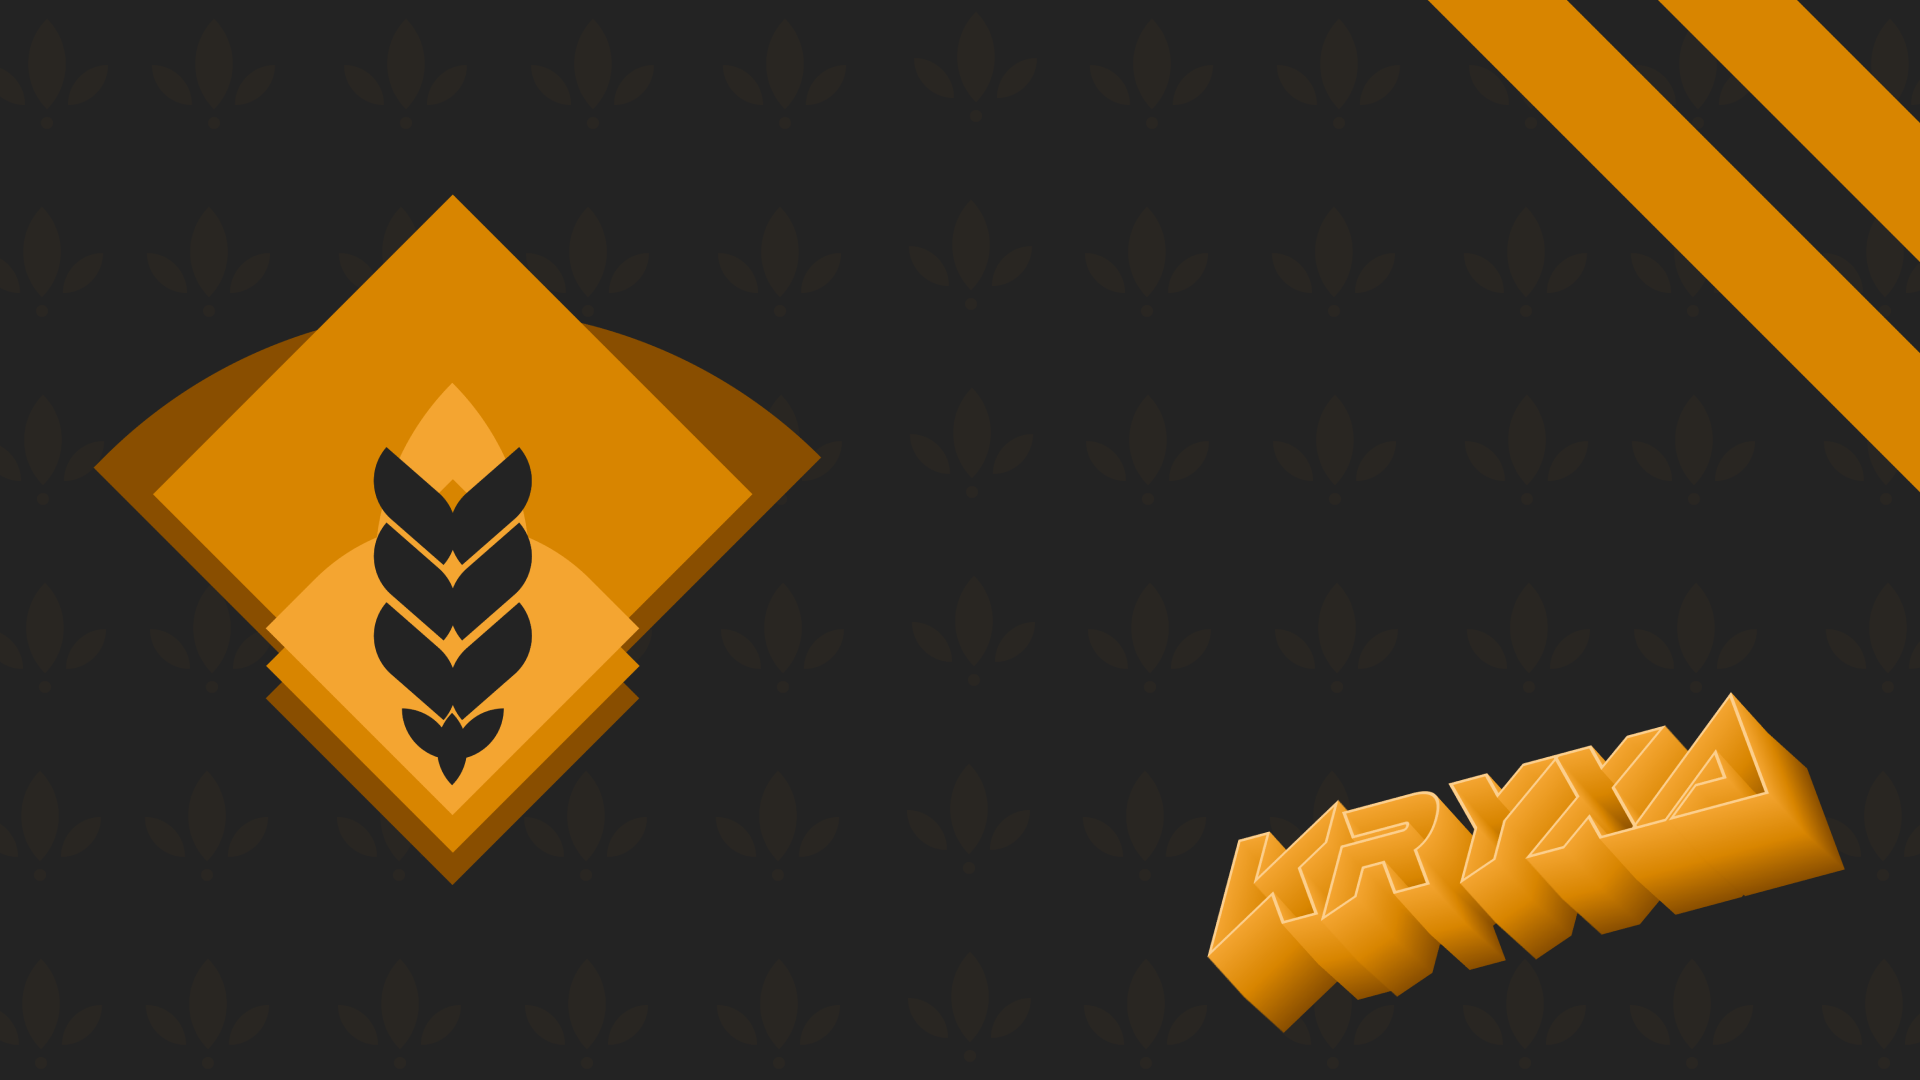
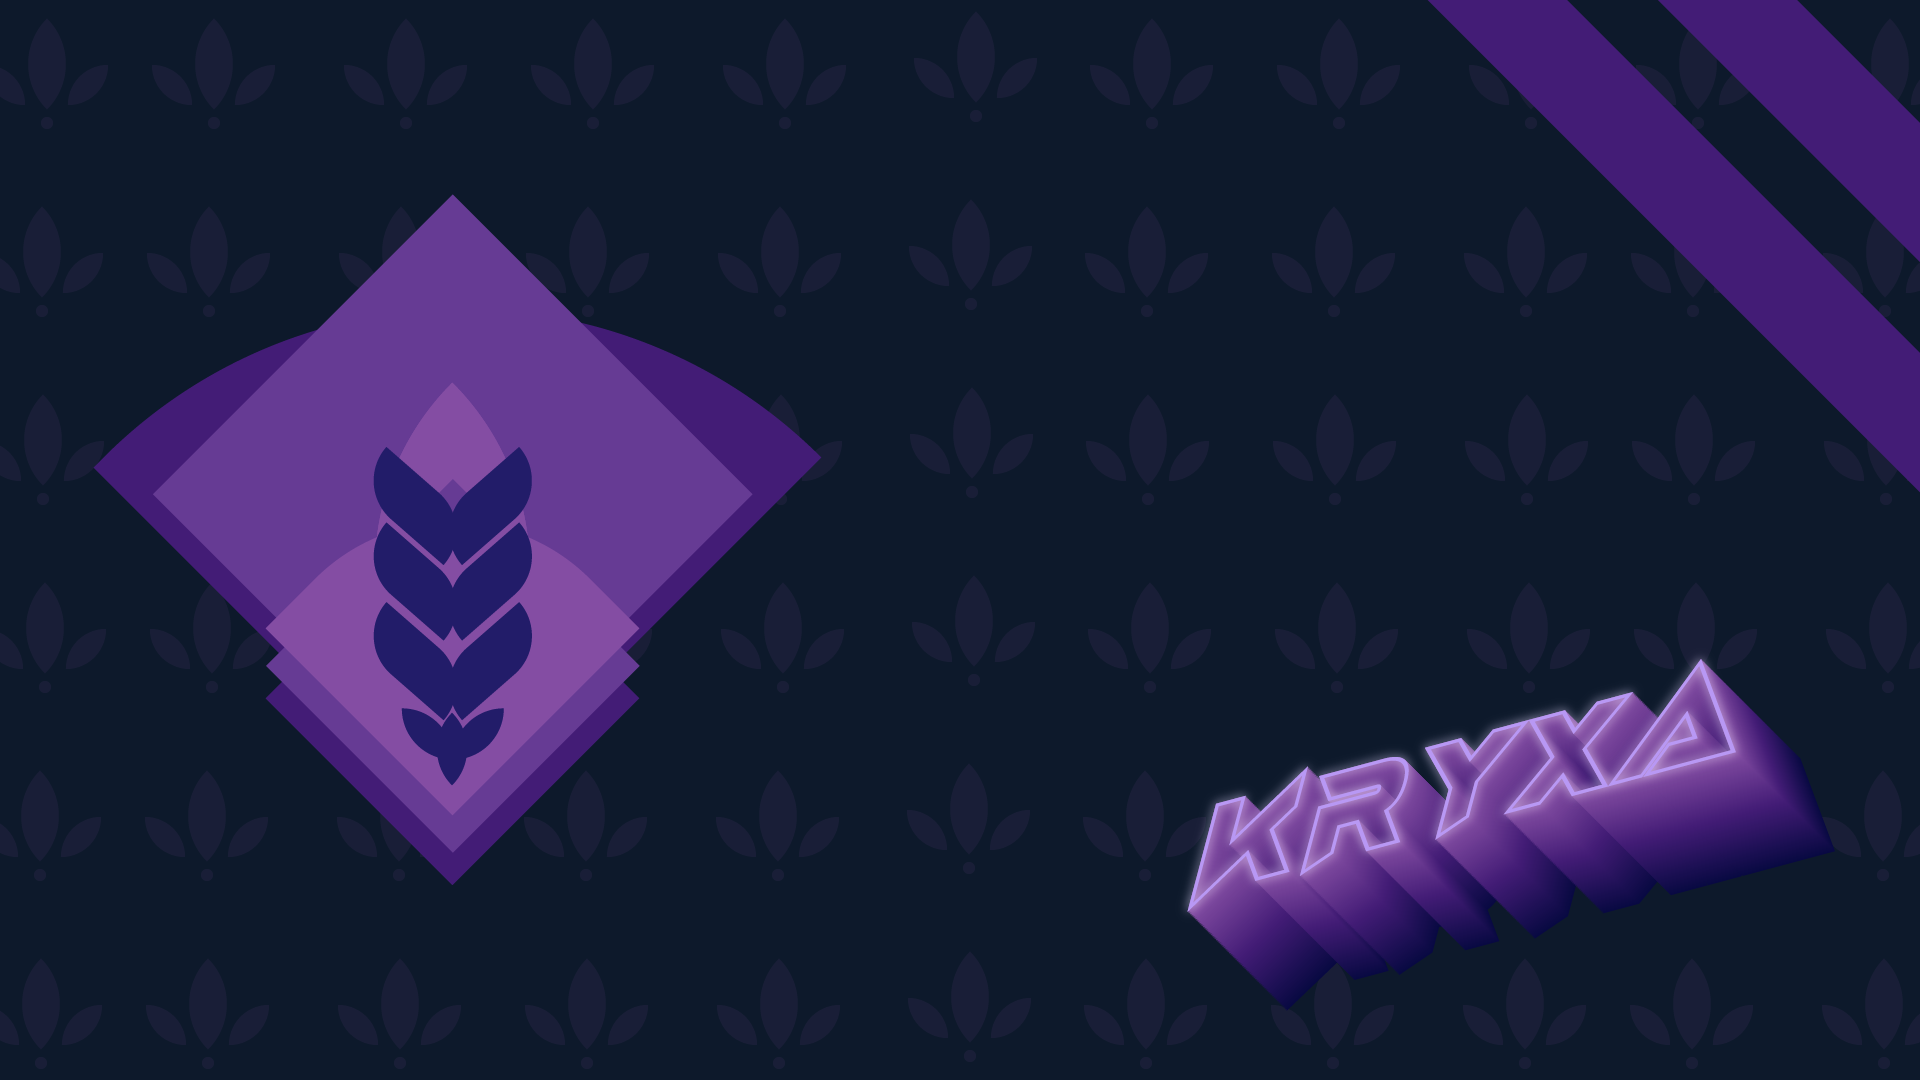
update login page

Changed region(s): [[0.0312, 0.1833, 0.4375, 0.825], [0.5938, 0.6111, 0.9688, 0.9472], [0.75, 0.0, 1.0, 0.4583]]

diff --git a/src/KryxaWeb/src/routes/admin/login/+page.svelte b/src/KryxaWeb/src/routes/admin/login/+page.svelte
@@ -1,14 +1,13 @@
 <script>
     import { Account } from '$lib/Account.js'
-    import { AdminLogin } from '$lib/Assets.js'
     let acc = new Account()
 </script>
 
-<div id="back" class="h-screen relative" style="background-image: url({AdminLogin['Background']});">
-    <div class="grid bg-amber-500 p-5 w-3/12 h-60 rounded-xl place-items-center justify-center relative top-1/3 left-2/4">
-        <input class="w-full h-12 bg-white rounded text-center" type="number" placeholder="ID" bind:value={acc.ID}>
-        <input class="w-full h-12 bg-white rounded text-center" type="password" placeholder="Password" bind:value={acc.Password}>
-        <button on:click={async () => {await acc.login("Admin")}} class="w-3/4 h-10 bg-white rounded-xl hover:bg-slate-600 active:bg-black">Login</button>
+<div id="back" class="h-screen font-BlackOpsOne pt-44 pb-auto bg-login-bg">
+    <div class="grid text-white bg-gradient-to-t from-[#4C0783] to-[#4132EC73] p-5 w-3/12 h-60 rounded-xl place-items-center justify-center mr-80 ml-auto">
+        <input class="w-full h-12 bg-gray-500 rounded text-center" type="number" placeholder="ID" bind:value={acc.ID}>
+        <input class="w-full h-12 bg-gray-500 rounded text-center" type="password" placeholder="Password" bind:value={acc.Password}>
+        <button on:click={async () => {await acc.login("Admin")}} class="w-3/4 h-10 bg-[#BC1AD7] rounded-xl hover:bg-slate-600 active:bg-black">Login</button>
     </div>
 </div>
 

diff --git a/src/KryxaWeb/src/lib/Assets.js b/src/KryxaWeb/src/lib/Assets.js
@@ -1,14 +1,9 @@
 import logo from '$lib/assets/logo.png'
-import login_bg from '$lib/assets/admin/login-bg.png'
 import bg_1 from '$lib/assets/admin/bg_1.png'
 import pc_screen from '$lib/assets/admin/pc_screen.png'
 import addPc from '$lib/assets/admin/addPc.png'
 
 export const AppLogo = logo;
-
-export const AdminLogin = {
-  "Background": login_bg,
-}
 
 export const MainScreen ={
   "pc_screen": pc_screen,

diff --git a/src/KryxaWeb/tailwind.config.js b/src/KryxaWeb/tailwind.config.js
@@ -6,6 +6,9 @@ export default {
       fontFamily: {
         BlackOpsOne: ['"Black Ops One"'],
         NotoSans:['"Noto Serif"']
+      },
+      backgroundImage: {
+        'login-bg': "url('$lib/assets/admin/login-bg.png')",
       }
     },
   },
